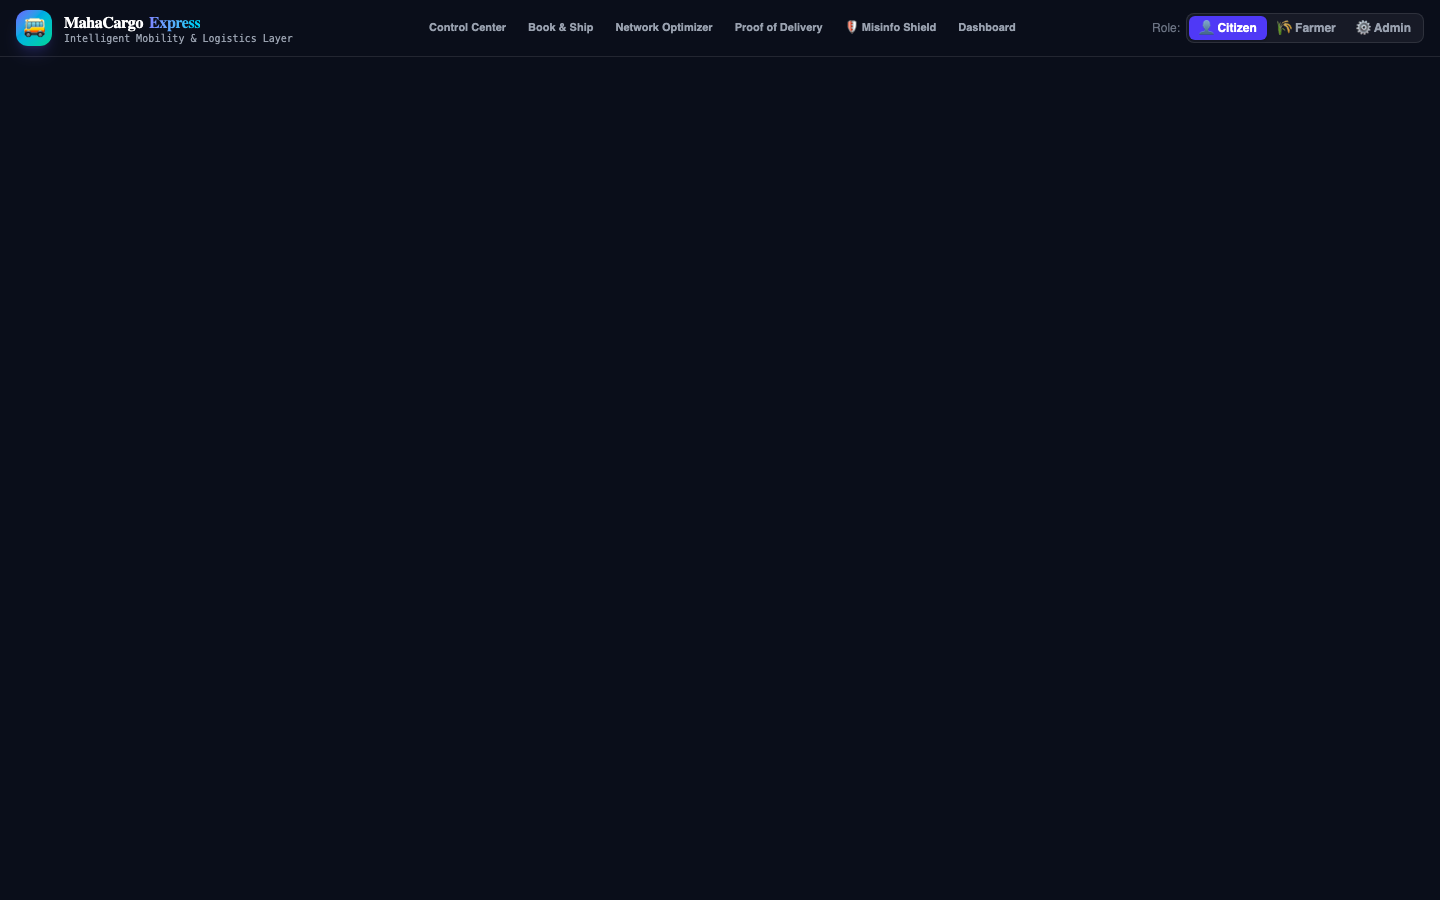
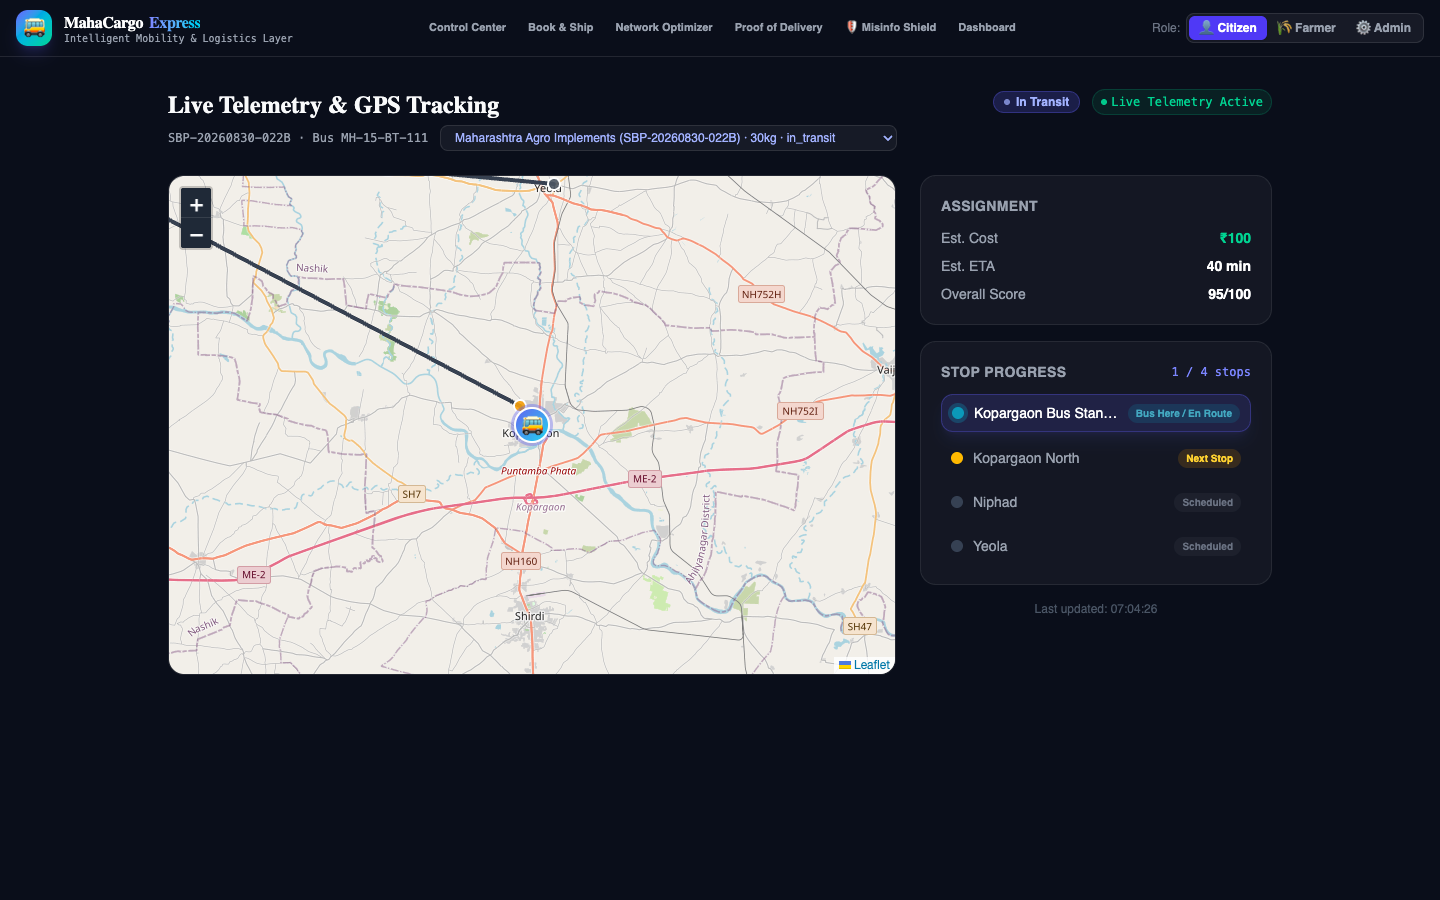
fix(docs): update live telemetry tracking screenshot and add parcel selector fallback

diff --git a/frontend/src/pages/Tracking.jsx b/frontend/src/pages/Tracking.jsx
@@ -1,7 +1,7 @@
 import { useState, useCallback, useEffect } from 'react'
-import { useParams } from 'react-router-dom'
+import { useParams, useNavigate } from 'react-router-dom'
 import { useQuery, useQueryClient } from '@tanstack/react-query'
-import { fetchTracking } from '../services/api'
+import { fetchTracking, fetchAllParcels } from '../services/api'
 import { useWebSocket } from '../hooks/useWebSocket'
 import { StatusBadge, Skeleton, ErrorState, DemoBadge } from '../components/UI'
 import { MapContainer, TileLayer, Polyline, Marker, Popup, CircleMarker, Tooltip } from 'react-leaflet'
@@ -23,17 +23,27 @@ const BUS_ICON = L.divIcon({
 })
 
 export default function Tracking() {
-  const { parcelId } = useParams()
+  const { parcelId: routeParcelId } = useParams()
+  const navigate = useNavigate()
   const queryClient = useQueryClient()
   const [busPosition, setBusPosition] = useState(null)
   const [parcelStatus, setParcelStatus] = useState(null)
   const [wsConnected, setWsConnected] = useState(false)
   const [lastUpdated, setLastUpdated] = useState(null)
 
+  const { data: allParcels } = useQuery({
+    queryKey: ['all-parcels-track'],
+    queryFn: fetchAllParcels,
+    staleTime: 30000,
+  })
+
+  const activeParcelId = routeParcelId || (allParcels && allParcels.length > 0 ? (allParcels.find(p => p.status === 'in_transit')?.id || allParcels[0].id) : null)
+
   const { data: tracking, isLoading, isError } = useQuery({
-    queryKey: ['tracking', parcelId],
-    queryFn: () => fetchTracking(parcelId),
-    refetchInterval: 30000,
+    queryKey: ['tracking', activeParcelId],
+    queryFn: () => fetchTracking(activeParcelId),
+    enabled: !!activeParcelId,
+    refetchInterval: 10000,
   })
 
   const parcel = tracking?.parcel
@@ -62,11 +72,11 @@ export default function Tracking() {
     }
     if (msg.type === 'status') {
       setParcelStatus(msg.parcel_status)
-      queryClient.invalidateQueries({ queryKey: ['tracking', parcelId] })
+      queryClient.invalidateQueries({ queryKey: ['tracking', activeParcelId] })
     }
-  }, [parcelId, queryClient])
+  }, [activeParcelId, queryClient])
 
-  useWebSocket(parcelId, onWsMessage)
+  useWebSocket(activeParcelId, onWsMessage)
 
   const currentStopIndex = busPosition?.stopIndex ?? bus?.current_stop_index ?? 0
   const pickupStopId = parcel?.pickup_stop_id
@@ -87,17 +97,37 @@ export default function Tracking() {
     <div className="max-w-6xl mx-auto px-6 py-8">
       <div className="mb-6 flex items-start justify-between flex-wrap gap-4">
         <div>
-          <h1 className="text-2xl font-bold font-['Space_Grotesk']">Live Tracking</h1>
-          <p className="text-gray-400 text-sm">
-            {parcel?.tracking_id} · Bus {bus?.bus_number || '—'}
-          </p>
+          <h1 className="text-2xl font-bold font-['Space_Grotesk']">Live Telemetry & GPS Tracking</h1>
+          <div className="flex items-center gap-3 mt-1 flex-wrap">
+            <span className="text-gray-400 text-xs font-mono">
+              {parcel?.tracking_id} · Bus {bus?.bus_number || '—'}
+            </span>
+            {allParcels && allParcels.length > 0 && (
+              <select
+                value={activeParcelId || ''}
+                onChange={(e) => navigate(`/track/${e.target.value}`)}
+                aria-label="Select Consignment to Track"
+                className="bg-white/5 border border-white/10 rounded-lg px-2.5 py-1 text-xs text-indigo-300 font-medium focus:outline-none focus:border-indigo-500 cursor-pointer"
+              >
+                {allParcels.map((p) => (
+                  <option key={p.id} value={p.id} className="bg-slate-900 text-white">
+                    {p.customer_name} ({p.tracking_id}) · {p.weight_kg}kg · {p.status}
+                  </option>
+                ))}
+              </select>
+            )}
+          </div>
         </div>
         <div className="flex items-center gap-3">
           <DemoBadge />
           <StatusBadge status={parcelStatus || parcel?.status} />
-          {!wsConnected && (
+          {!wsConnected ? (
             <span className="text-xs text-amber-400 bg-amber-500/10 border border-amber-500/20 px-2 py-1 rounded-full">
-              ⏳ Connecting...
+              ⏳ Connecting WebSocket...
+            </span>
+          ) : (
+            <span className="text-xs text-emerald-400 bg-emerald-500/10 border border-emerald-500/20 px-2 py-1 rounded-full flex items-center gap-1 font-mono">
+              <span className="w-1.5 h-1.5 rounded-full bg-emerald-400 animate-pulse"></span> Live Telemetry Active
             </span>
           )}
         </div>

diff --git a/frontend/src/App.jsx b/frontend/src/App.jsx
@@ -35,6 +35,9 @@ export default function App() {
               <Route path="/optimizer" element={<NetworkOptimizer />} />
               <Route path="/verify" element={<VerificationAudit />} />
               <Route path="/misinfo" element={<MisinfoPortal />} />
+              <Route path="/track" element={<Tracking />} />
+              <Route path="/track/:parcelId" element={<Tracking />} />
+              <Route path="/tracking" element={<Tracking />} />
               <Route path="/tracking/:parcelId" element={<Tracking />} />
               <Route path="/dashboard" element={<Dashboard />} />
             </Routes>
